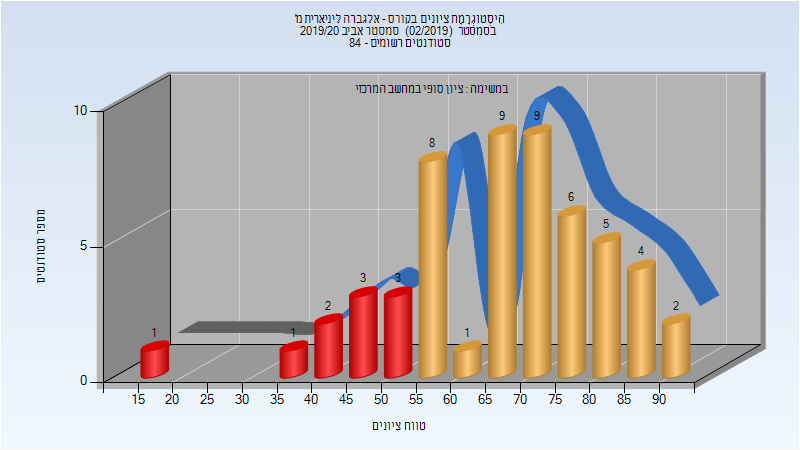
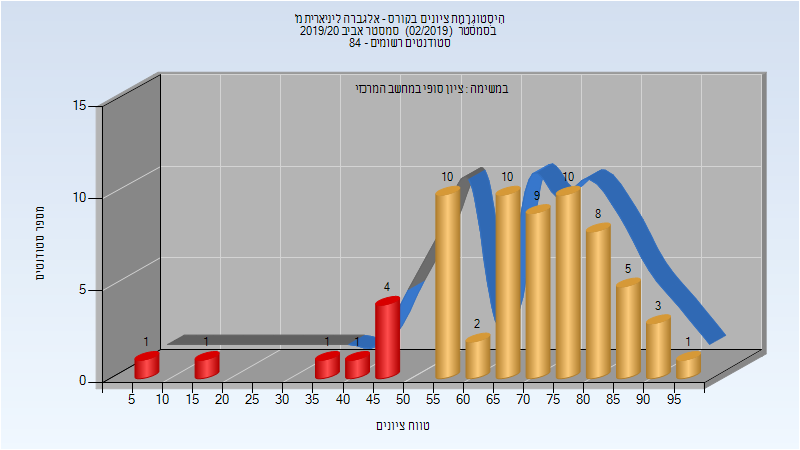
Deploy michael-maltsev/technion-histograms to github.com/michael-maltsev/technion-histograms.git:gh-pages

diff --git a/104019/index.html b/104019/index.html
@@ -1739,6 +1739,32 @@
 </tr>
 </tbody>
 </table>
+<h3>סופי מועד ב'</h3>
+<p><img src="201902/Final_B.png" alt="201902 Final_B" /></p>
+<table>
+<thead>
+<tr>
+<th>סטודנטים</th>
+<th>עברו/נכשלו</th>
+<th>אחוז עוברים</th>
+<th>ציון מינימלי</th>
+<th>ציון מקסימלי</th>
+<th>ממוצע</th>
+<th>חציון</th>
+</tr>
+</thead>
+<tbody>
+<tr>
+<td>30</td>
+<td>23/7</td>
+<td>77</td>
+<td>6</td>
+<td>99</td>
+<td>62.4</td>
+<td>66</td>
+</tr>
+</tbody>
+</table>
 <h3>סופי</h3>
 <p><img src="201902/Finals.png" alt="201902 Finals" /></p>
 <table>
@@ -1755,13 +1781,13 @@
 </thead>
 <tbody>
 <tr>
-<td>54</td>
-<td>44/10</td>
-<td>81</td>
-<td>16</td>
-<td>94</td>
-<td>66.5</td>
-<td>68</td>
+<td>66</td>
+<td>58/8</td>
+<td>88</td>
+<td>6</td>
+<td>99</td>
+<td>68.485</td>
+<td>70.5</td>
 </tr>
 </tbody>
 </table>

diff --git a/314200/index.html b/314200/index.html
@@ -553,13 +553,13 @@
 </thead>
 <tbody>
 <tr>
-<td>91</td>
-<td>81/10</td>
-<td>89</td>
+<td>94</td>
+<td>87/7</td>
+<td>93</td>
 <td>25</td>
 <td>100</td>
-<td>73.923</td>
-<td>74</td>
+<td>76.234</td>
+<td>75.5</td>
 </tr>
 </tbody>
 </table>

diff --git a/104019/README.md b/104019/README.md
@@ -542,11 +542,19 @@
 | ---- | ---- | ---- | ---- | ---- | ---- | ---- |
 | 30 | 18/12 | 60 | 0 | 99 | 57.8 | 60 |
 
+### סופי מועד ב'
+
+![201902 Final_B](201902/Final_B.png)
+
+| סטודנטים | עברו/נכשלו | אחוז עוברים | ציון מינימלי | ציון מקסימלי | ממוצע | חציון |
+| ---- | ---- | ---- | ---- | ---- | ---- | ---- |
+| 30 | 23/7 | 77 | 6 | 99 | 62.4 | 66 |
+
 ### סופי
 
 ![201902 Finals](201902/Finals.png)
 
 | סטודנטים | עברו/נכשלו | אחוז עוברים | ציון מינימלי | ציון מקסימלי | ממוצע | חציון |
 | ---- | ---- | ---- | ---- | ---- | ---- | ---- |
-| 54 | 44/10 | 81 | 16 | 94 | 66.5 | 68 |
+| 66 | 58/8 | 88 | 6 | 99 | 68.485 | 70.5 |
 

diff --git a/314200/README.md b/314200/README.md
@@ -171,5 +171,5 @@
 
 | סטודנטים | עברו/נכשלו | אחוז עוברים | ציון מינימלי | ציון מקסימלי | ממוצע | חציון |
 | ---- | ---- | ---- | ---- | ---- | ---- | ---- |
-| 91 | 81/10 | 89 | 25 | 100 | 73.923 | 74 |
+| 94 | 87/7 | 93 | 25 | 100 | 76.234 | 75.5 |
 
